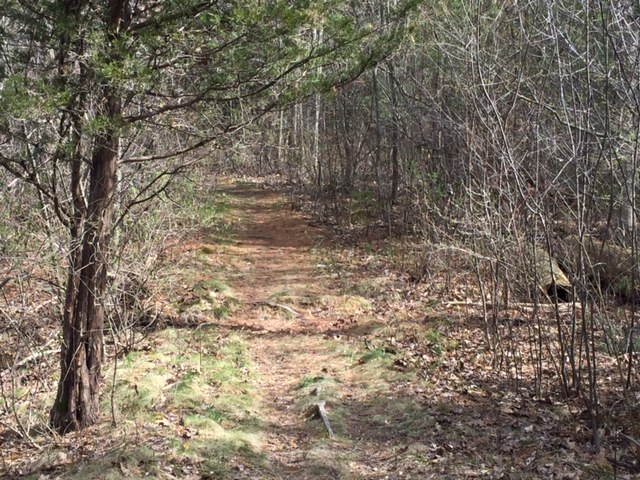
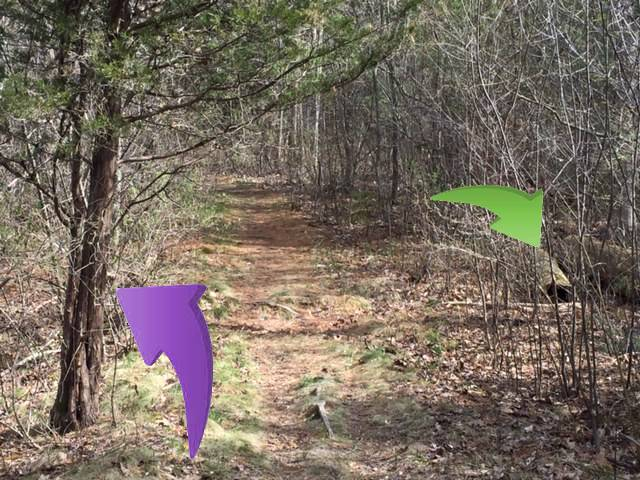
added clues for log hole

Changed region(s): [[0.1562, 0.5625, 0.3438, 0.9688], [0.6562, 0.375, 0.875, 0.5312]]

diff --git a/linden-treasure-hunt/src/data.js b/linden-treasure-hunt/src/data.js
@@ -92,7 +92,34 @@ const maps = [{
     stamp: "/images/treasure/sattelite.jpg",
     level:"hard",
     location: "woods",
-    details:"Lorem ipsum dolor sit amet, consectetur adipisicing elit, sed do eiusmod tempor incididunt ut labore et dolore magna aliqua.",
+    details:"Deep in the woods and a fun hiding spot, however there aren't many descriptive features nearby so stay vigilant. The hiding spot is slightly to the side of the trail.",
+    clues:[
+        {
+            clue:"To start, enter the woods at the trailhead either at the end of Winslow Drive or Squire Way. Look for the trailhead markers that say 'Trail'",
+            image: "/images/clues/trailhead2.jpg",
+            clicked:false
+        },
+        {
+            clue:"Take the trail along the river leading away from the train tracks. Keep to the left at forks to stay on the river path. You'll be on this path for a while.",
+            image: "/images/clues/pathfork.jpg",
+            clicked:false
+        },
+        {
+            clue:"You will cross a couple bridges and trudge through some muck. Eventually, you will come to a section of the trail where a large tree, and a few smaller ones, had fallen and have been cut to clear the path. You're close now!",
+            image: "/images/clues/holelogpath.jpg",
+            clicked:false
+        },
+        {
+            clue:"Not far ahead will be a cedar tree on your left. About 10ft beyond that and on your right will be a log with a hole in it.",
+            image: "/images/clues/holelogpath2.jpg",
+            clicked:false
+        },
+        {
+            clue:"Look inside the log with the hole in it and you will find the treasure.",
+            image: "/images/clues/hiddenlog.jpg",
+            clicked:false
+        }
+    ],
     parentsNeeded:true
 },
 {

diff --git a/linden-treasure-hunt/src/components/ShowMap.vue b/linden-treasure-hunt/src/components/ShowMap.vue
@@ -88,7 +88,7 @@ export default {
     }
 
     .clue-image{
-        max-width:200px;
+        max-height:200px;
         cursor: pointer;
     }
 
@@ -98,6 +98,10 @@ export default {
         }
         .stamp-image{
             width:100%;
+        }
+        .clue-image{
+            max-height:400px;
+            cursor: pointer;
         }
     }
 </style>
